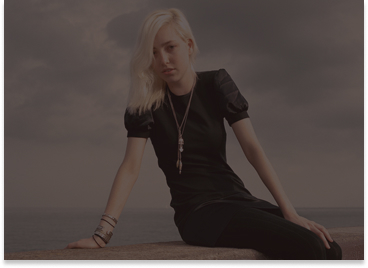
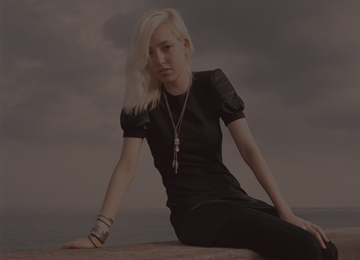
Homework lesson012 added

diff --git a/Lesson_011/HomeWork/index.html b/Lesson_011/HomeWork/index.html
@@ -24,9 +24,9 @@
             <a href="#" class="link"><img src="img/cart_icon.png" alt="cart_icon" class="cart_icon"></a>
         </nav>
     </header>
-    <section class="top center">
+    <section class="top">
         <div class="top_item1">
-            <img src="img/top_img.png" alt="top_img">
+            <img class="top_img" src="img/top_img(1).png" alt="top_img">
         </div>
         <div class="top_item2">
             <div class="top_lable">
@@ -42,43 +42,57 @@
         </div>
     </section>
     <section class="catalog center">
-        <div class="catalog_item catalog_item1">
-            <a href="#">
-                <div class="catalog_subtitle">
-                    30% OFF
-                </div>
-                <div class="catalog_title">
-                    FOR WOMEN
-                </div>
-            </a>
+        <div class="catalog_box">
+            <div class="catalog_item">
+                <a href="#">
+                    <img src="img/women_catalog_img.jpg" alt="women_catalog">
+                    <div class="catalog_text_box">
+                        <div class="catalog_subtitle">
+                            30% OFF
+                        </div>
+                        <div class="catalog_title">
+                            FOR WOMEN
+                        </div>
+                    </div>
+                </a>
+            </div>
+            <div class="catalog_item">
+                <a href="#">
+                    <img src="img/men_catalog_img.jpg" alt="men_catalog">
+                    <div class="catalog_text_box">
+                        <div class="catalog_subtitle">
+                            HOT DEAL
+                        </div>
+                        <div class="catalog_title">
+                            FOR MEN
+                        </div>
+                    </div>
+                </a>
+            </div>
+            <div class="catalog_item">
+                <a href="#">
+                    <img src="img/kids_catalog_img.jpg" alt="kids_catalog">
+                    <div class="catalog_text_box">
+                        <div class="catalog_subtitle">
+                            NEW ARRIVALS
+                        </div>
+                        <div class="catalog_title">
+                            FOR KIDS
+                        </div>
+                    </div>
+                </a>
+            </div>
         </div>
-        <div class="catalog_item catalog_item2">
+        <div class="catalog_item">
             <a href="#">
-                <div class="catalog_subtitle">
-                    HOT DEAL
-                </div>
-                <div class="catalog_title">
-                    FOR MEN
-                </div>
-            </a>
-        </div>
-        <div class="catalog_item catalog_item3">
-            <a href="#">
-                <div class="catalog_subtitle">
-                    NEW ARRIVALS
-                </div>
-                <div class="catalog_title">
-                    FOR KIDS
-                </div>
-            </a>
-        </div>
-        <div class="catalog_item catalog_item4">
-            <a href="#">
-                <div class="catalog_subtitle">
-                    LUXIROUS & TRENDY
-                </div>
-                <div class="catalog_title">
-                    ACCESORIES
+                <img src="img/accesories_catalog_img.jpg" alt="accesories_catalog">
+                <div class="catalog_text_box">
+                    <div class="catalog_subtitle">
+                        LUXIROUS & TRENDY
+                    </div>
+                    <div class="catalog_title">
+                        ACCESORIES
+                    </div>
                 </div>
             </a>
         </div>

diff --git a/Lesson_011/HomeWork/style.css b/Lesson_011/HomeWork/style.css
@@ -16,6 +16,10 @@ body {
     padding-right: calc(50% - 570px);
 }
 
+img {
+    max-width: 100%;
+}
+
 .header {
     height: 75px;
     display: flex;
@@ -65,16 +69,14 @@ body {
 
 .top {
     background: #F1E4E6;
-    height: 764px;
-    display: grid;
-    grid-template-columns: 50% 50%;
+    max-height: 764px;
+    display: flex;
+    padding-left: calc(50% - 800px);
+    padding-right: calc(50% - 800px);
 }
 
 .top_item1 {
     display: flex;
-    justify-content: flex-end;
-    flex-direction: row;
-    align-items: flex-end;
 }
 
 .top_item2 {
@@ -97,11 +99,6 @@ body {
     grid-row: 1/span 2;
     background: #F16D7F;
     border: black solid 1px;
-}
-
-.catalog {
-    margin-top: 65px;
-    margin-bottom: 96px;
 }
 
 .top_title {
@@ -132,34 +129,37 @@ body {
 }
 
 .catalog {
-    display: grid;
-    grid-template-columns: repeat(3, 360px);
-    grid-template-rows: 260px 180px;
+    margin-top: 65px;
+    margin-bottom: 96px;
+    display: flex;
+    flex-direction: column;
+}
+
+.catalog_box {
+    display: flex;
+    justify-content: space-between;
     gap: 30px;
+    margin-bottom: 30px;
 }
 
 .catalog_item {
+    flex-grow: 1;
+    position: relative;
     display: flex;
+    flex-direction: column;
     justify-content: center;
-    align-items: center;
+    height: 100%;
 }
 
-.catalog_item1 {
-    background-image: url(img/women_catalog_img.jpg);
-}
-
-.catalog_item2 {
-    background-image: url(img/men_catalog_img.jpg);
-}
-
-.catalog_item3 {
-    background-image: url(img/kids_catalog_img.jpg);
-}
-
-.catalog_item4 {
-    background-image: url(img/accesories_catalog_img.jpg);
-    grid-row: 2;
-    grid-column: 1/4;
+.catalog_text_box {
+    position: absolute;
+    width: 100%;
+    height: 100%;
+    top: 0;
+    left: 0;
+    display: flex;
+    flex-direction: column;
+    justify-content: center;
 }
 
 .catalog_title {
@@ -266,4 +266,45 @@ body {
     line-height: 19px;
     color: #F26376;
     text-align: center;
+}
+
+@media (min-width: 768px) and (max-width: 1140px) {
+    .nav_link_additional {
+        margin-left: 32px;
+    }
+    .nav_link_main {
+        margin-right: 32px;
+    }
+    .top_item2 {
+        display: flex;
+        align-items: center;
+        padding-left: 39px;
+        padding-top: 0;
+    }
+    .top_title {
+        font-size: 44px;
+        line-height: 53px;
+    }
+    .top_subtitle {
+        font-size: 24px;
+        line-height: 29px;
+    }
+    .catalog {
+        margin-bottom: 110px;
+        margin-left: 16px;
+        margin-right: 16px;
+    }
+    .catalog_box {
+        gap: 20px;
+        margin-bottom: 20px;
+    }
+    .products_box {
+        margin-top: 73px;
+        margin-bottom: 33px;
+        grid-template-columns: repeat(2, 360px);
+        gap: 16px;
+    }
+    .product_button {
+        margin-bottom: 71px;
+    }
 }
